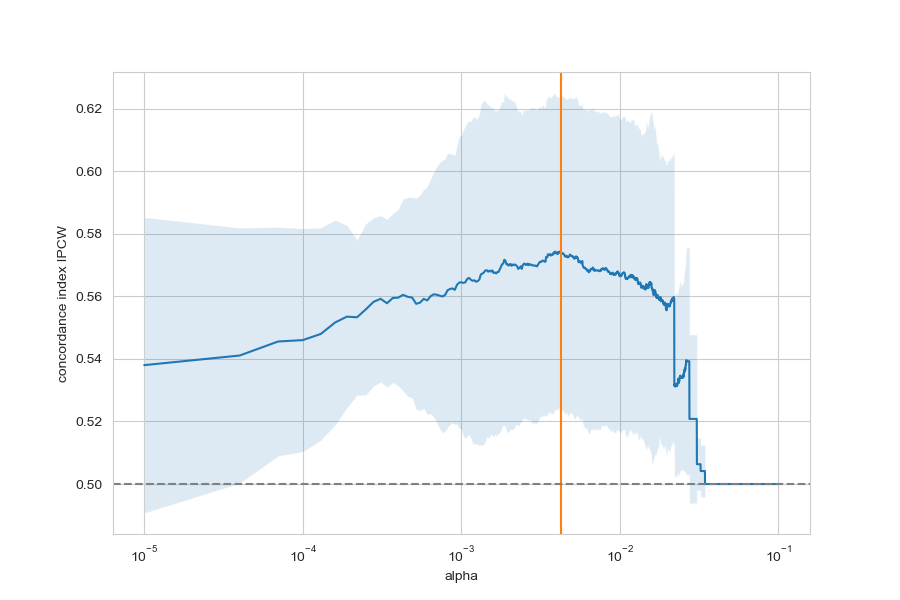
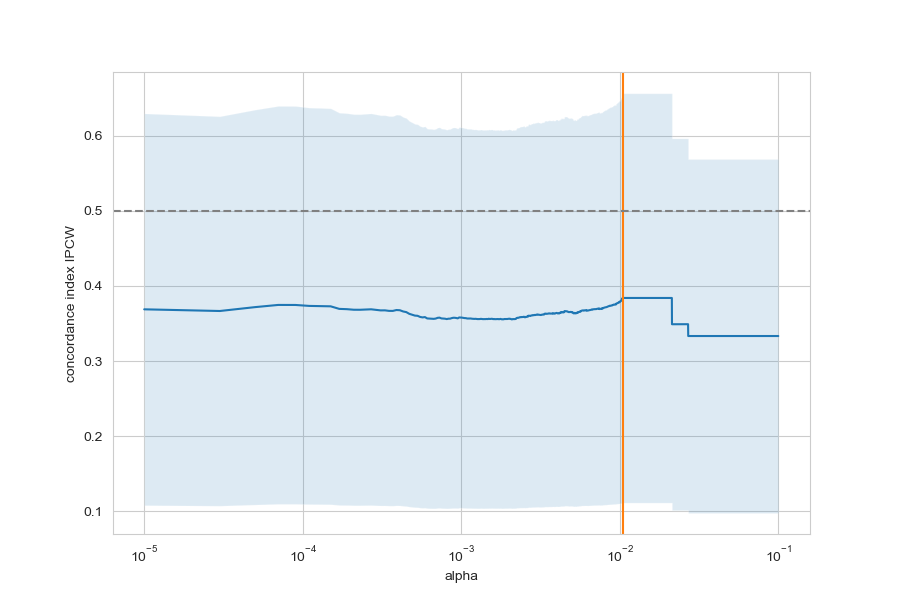
Some fixes + better results

diff --git a/Implementation/Logic/Trainer.py b/Implementation/Logic/Trainer.py
@@ -43,8 +43,6 @@ class Trainer:
         best_validation_loss = float('inf')
         best_model_state = None
         best_epoch = -1
-        tr_losses = []
-        val_losses = []
         scheduler = StepLR(tr_model.optim, step_size=tr_model.epochs // 3, gamma=0.5)
 
         for t in range(tr_model.epochs + 1):
@@ -107,22 +105,18 @@ class Trainer:
             # number of batches / 64
             tr_len, val_len = tr_model.fetch_train_val_total_length()
 
-            avg_train_loss = train_loss / (tr_len / tr_model.BATCH_SIZE)
-            avg_valid_loss = valid_loss / (val_len / tr_model.BATCH_SIZE)
-            tr_losses += [avg_train_loss]
-            val_losses += [avg_valid_loss]
-
             # Print epoch-wise loss
-            print("Epoch", t, "completed with average training loss:", round(avg_train_loss,2))
-            print("Epoch", t, "completed with average validation loss:", round(avg_valid_loss,2))
-
             loss_dict_tr, loss_dict_val = tr_model.loss_fn.process_batch(num_train_batches, num_val_batches)
+
+            avg_valid_loss = round(loss_dict_val['MSE'][-1], 2)
+            print("Epoch", t, "completed with average validation loss:", avg_valid_loss)
 
             # Check if validation loss improved
             if avg_valid_loss < best_validation_loss:
                 best_validation_loss = avg_valid_loss
                 best_model_state = tr_model.model.state_dict()
                 best_epoch = t
+                print("New checkpoint!")
 
         torch.save(best_model_state, 'Checkpoints/model_loss' + str(tr_model.name) + "_" + str(round(best_validation_loss)) + '.pth')
         tr_model.model.load_state_dict(best_model_state)
@@ -154,20 +148,20 @@ class Trainer:
 
         start = 0.00001
         stop = 0.1
-        step = 0.00003
+        step = 0.00002
         estimated_alphas = np.arange(start, stop + step, step)
 
         # we remove warnings when coefficients in Cox PH model are 0
         warnings.simplefilter("ignore", UserWarning)
         warnings.simplefilter("ignore", FitFailedWarning)
 
-        cv = KFold(n_splits=5, shuffle = True, random_state = 46)
+        cv = KFold(n_splits=3, shuffle = True, random_state = 46)
         gcv = GridSearchCV(
             as_concordance_index_ipcw_scorer(CoxnetSurvivalAnalysis(l1_ratio=0.95, fit_baseline_model = True)),
             param_grid = {"estimator__alphas": [[v] for v in estimated_alphas]},
             cv = cv,
             error_score = 0,
-            n_jobs = 4,
+            n_jobs = 5,
         ).fit(latent_space_train, eval_model.unroll_Ytrain())
 
         cv_results = pd.DataFrame(gcv.cv_results_)

diff --git a/Implementation/Logic/Autoencoders/MinWorkingExample.py b/Implementation/Logic/Autoencoders/MinWorkingExample.py
@@ -42,7 +42,8 @@ class MWE_AE(torch.nn.Module):
             custom_block(1500, 2000),
             custom_block(2000, 2500),
             custom_block(2500, 3000),
-            custom_block(3000, input_dim),
+            torch.nn.Linear(3000, input_dim),
+            torch.nn.BatchNorm1d(input_dim),
             torch.nn.Sigmoid()
         )
 
@@ -56,7 +57,7 @@ class MWE_AE(torch.nn.Module):
         return self.encoder(x)
 
 
-def custom_block(input_dim, output_dim, dropout_rate=0.1):
+def custom_block(input_dim, output_dim, dropout_rate=0.4):
     return torch.nn.Sequential(
         torch.nn.Linear(input_dim, output_dim),
         torch.nn.BatchNorm1d(output_dim),

diff --git a/Implementation/Logic/Main.py b/Implementation/Logic/Main.py
@@ -55,7 +55,7 @@ if __name__ == "__main__":
         optim = torch.optim.Adam(aeModel.parameters(), lr = 0.1)
         instanceModel = TrainingModel(title, d.X_train_batch, d.Y_train_batch, d.X_test_batch, d.Y_test_batch,
                                   d.X_val_batch, d.Y_val_batch, d.Y_dataframe, d.Xcli_train, d.Xcli_test, d.cli_vars,
-                                    aeModel, loss_fn, optim, 20, BATCH_SIZE, d.fetch_columns(), L)#, 'best_model_loss_1478.pth')
+                                    aeModel, loss_fn, optim, 100, BATCH_SIZE, d.fetch_columns(), L)#, 'best_model_loss_1478.pth')
         instanceModels += [instanceModel]
 
 
